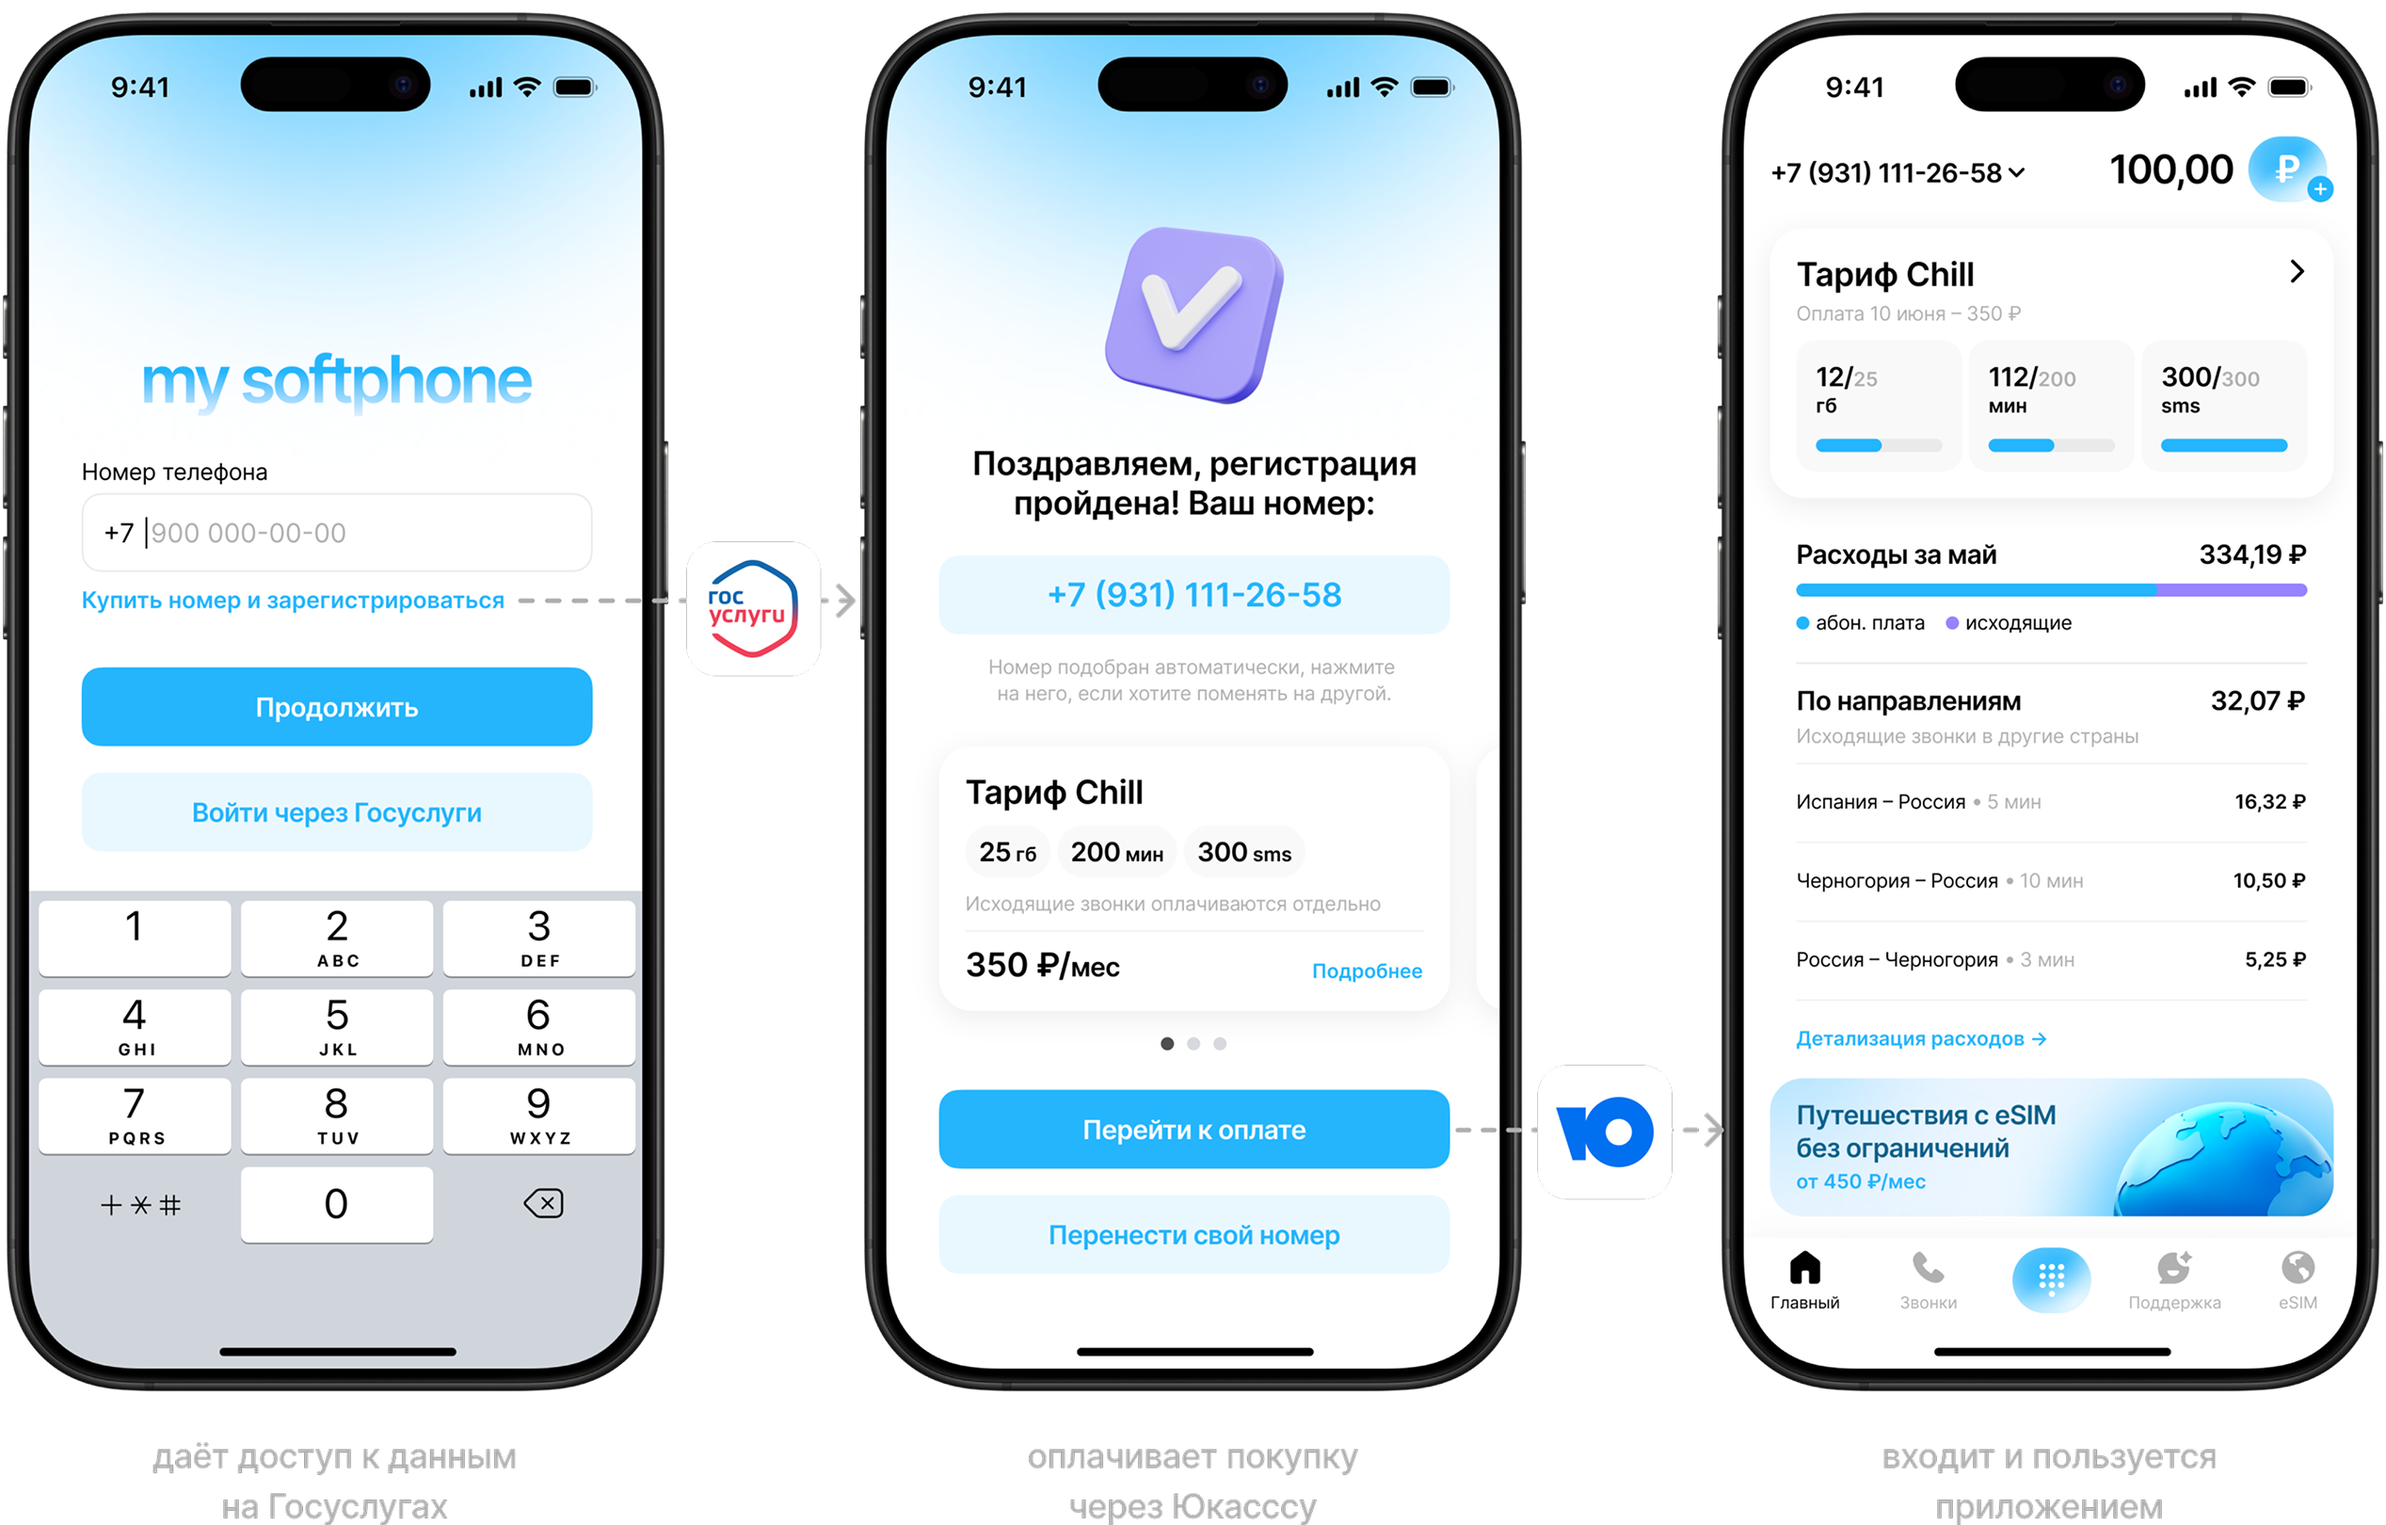
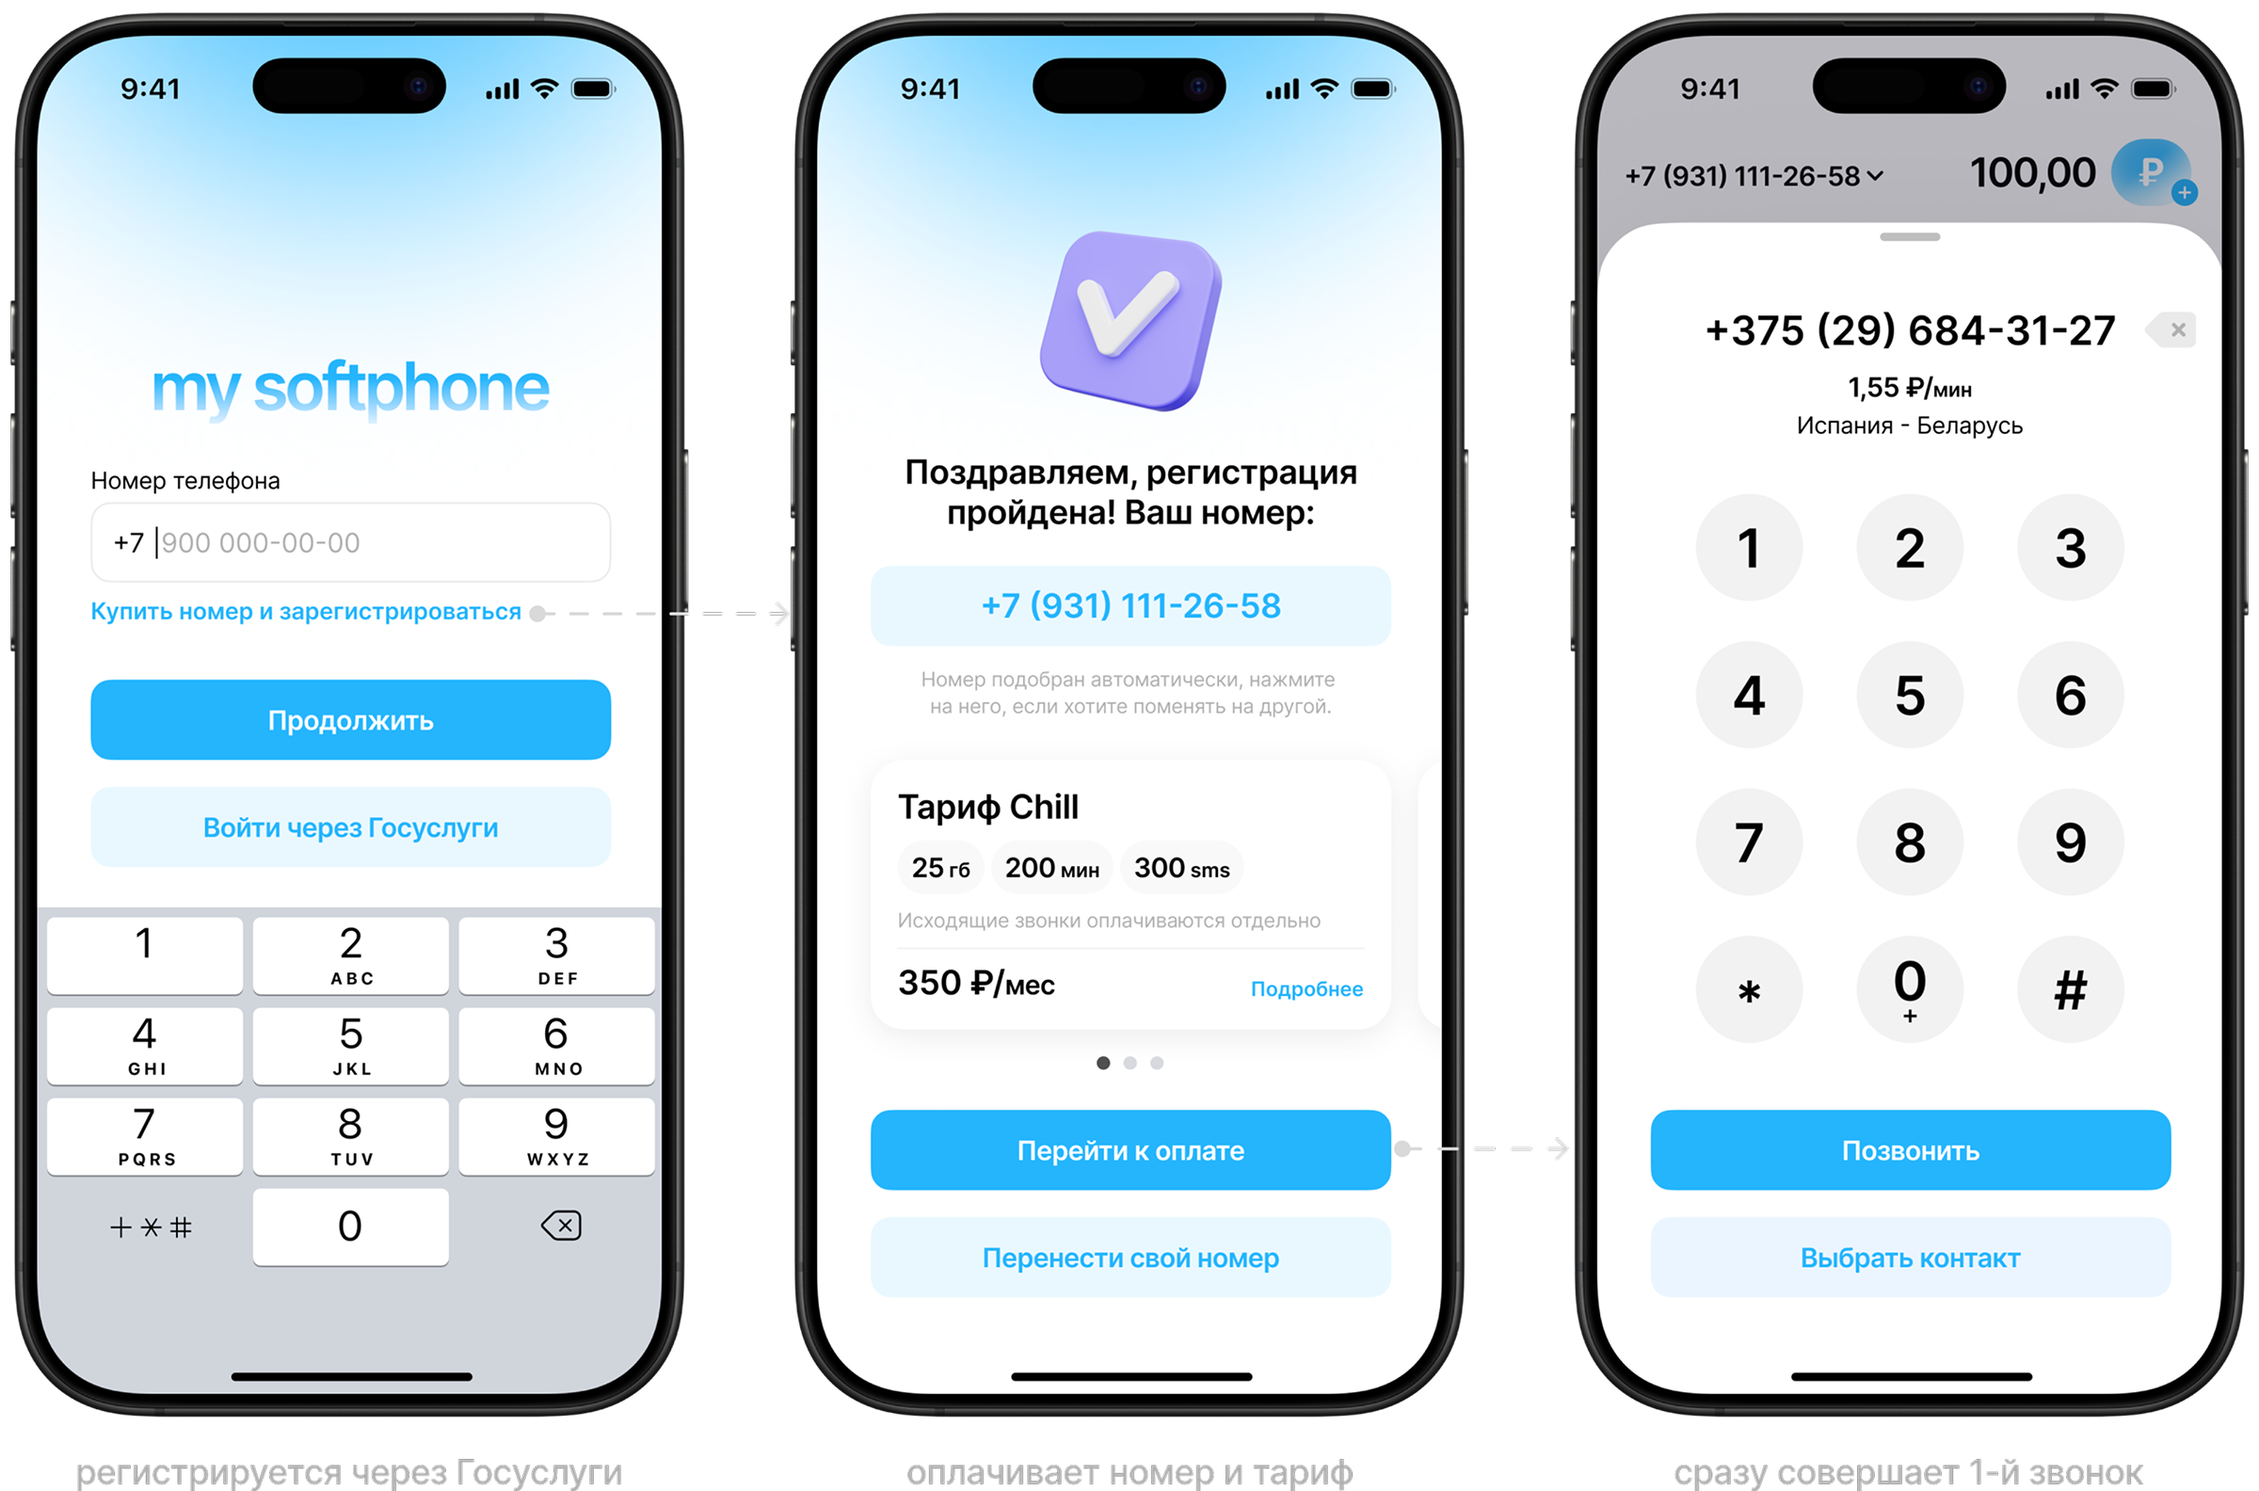
Update Softphone success visual

diff --git a/src/components/case-study-page.tsx b/src/components/case-study-page.tsx
@@ -853,15 +853,15 @@ export function CaseStudyPage() {
             </div>
           </div>
 
-            <div className="case-numbered-point-media case-visual-spacing relative left-1/2 flex w-screen max-w-[850px] -translate-x-1/2 items-center justify-center pl-space-4 sm:w-[calc(100vw-32px)] sm:pl-0">
+            <div className="case-numbered-point-media case-visual-spacing relative left-1/2 flex w-screen max-w-[800px] -translate-x-1/2 items-center justify-center pl-space-4 sm:w-[calc(100vw-32px)] sm:pl-0">
             <div className="case-horizontal-scroll w-full overflow-x-auto sm:overflow-visible">
-              <div className="w-[850px] max-w-none sm:mx-auto sm:w-full sm:max-w-[850px]">
+              <div className="w-[800px] max-w-none sm:mx-auto sm:w-full sm:max-w-[800px]">
                 <Image
                   alt=""
                   src={assets.solutionSuccess}
-                  width={2535}
-                  height={1620}
-                  sizes="(max-width: 640px) 850px, 850px"
+                  width={2400}
+                  height={1584}
+                  sizes="800px"
                   className="h-auto w-full object-contain"
                   loading="lazy"
                   quality={100}
